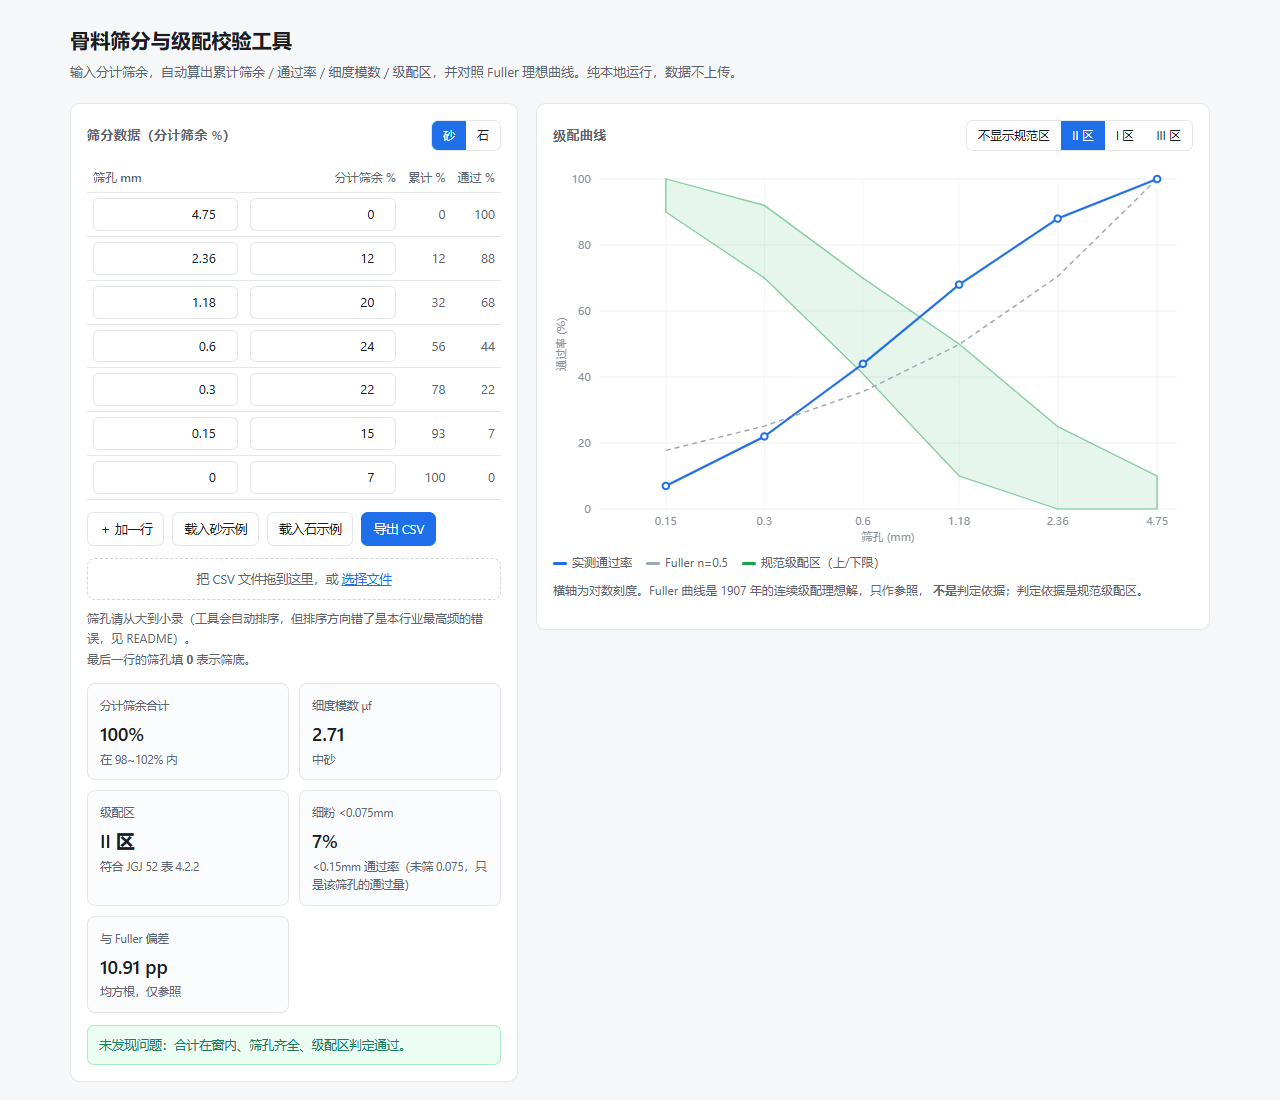
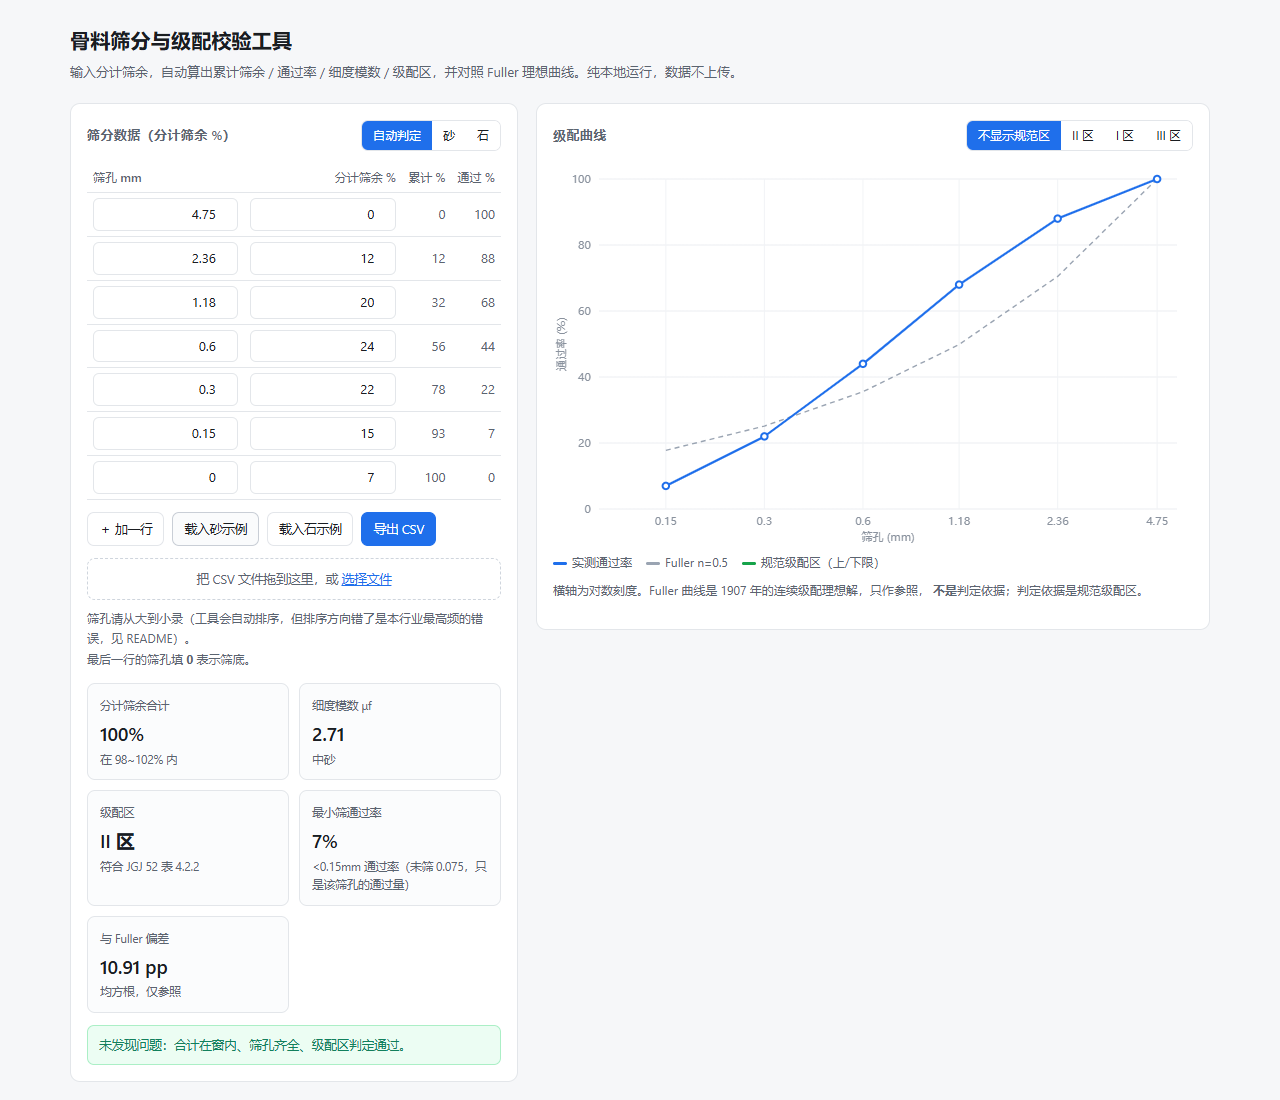
fix: 碎石被误判为「级配区不合格」；细粉标签错位（v1.0.1）
问题：5~20 碎石样本被当作砂代入 JGJ 52 级配区判定，三区全不落
⇒ 判成「不合格」，且细度模数报「缺少 1.18mm 筛」。这是工具口径错误，
不是数据错误，会直接把合格石料判死。

修复：
- 按 4.75mm 通过率自动区分细/粗骨料（阈值 85%，两侧余量充分）
- 粗骨料：细度模数与砂级配区标注「不适用」且不计入不合格；给出最大粒径
- 核心新增 fines.isFines 布尔标记，修掉 basis 文案含 0.075 导致的标签错位
- CLI/页面 kind 默认改为 auto，保留 --kind 强制覆盖
- 断言 14 → 19，新增粗细骨料回归 4 条 + 细粉标签回归 1 条
- docs 增补口径边界一节；README 增更新记录

diff --git a/index.html b/index.html
@@ -72,7 +72,8 @@
       <div class="head-row">
         <h2>筛分数据（分计筛余 %）</h2>
         <div class="seg" id="kindSeg">
-          <button data-kind="sand" class="on">砂</button>
+          <button data-kind="auto" class="on">自动判定</button>
+          <button data-kind="sand">砂</button>
           <button data-kind="stone">石</button>
         </div>
       </div>
@@ -139,7 +140,7 @@
   var kpis = document.getElementById('kpis');
   var msg = document.getElementById('msg');
   var chart = document.getElementById('chart');
-  var kind = 'sand';
+  var kind = 'auto';   // auto | sand | stone
   var zoneOn = 'none';
 
   var SAND_DEMO = [
@@ -195,7 +196,7 @@
 
   function render() {
     var data = rows();
-    var rep = G.analyze(data, { kind: kind });
+    var rep = G.analyze(data, { kind: kind === 'auto' ? null : kind });
 
     // 表格右侧只读列
     var trs = tbody.querySelectorAll('tr');
@@ -230,7 +231,7 @@
     kpi('分计筛余合计', rep.massBalancePct + '%',
       (rep.massBalancePct >= 98 && rep.massBalancePct <= 102) ? '在 98~102% 内' : '偏离 98~102%');
 
-    if (kind === 'sand') {
+    if (rep.kind === 'sand') {
       if (rep.finenessModulus && rep.finenessModulus.ok) {
         kpi('细度模数 μf', rep.finenessModulus.value, rep.finenessModulus.classification);
       } else {
@@ -238,9 +239,14 @@
       }
       kpi('级配区', rep.zone.pass ? rep.zone.zones.join(' / ') + ' 区' : '不合格',
         rep.zone.pass ? '符合 JGJ 52 表 4.2.2' : '不落在任何区内');
+    } else {
+      kpi('骨料类别', '粗骨料', '4.75mm 通过率 <85%');
+      kpi('细度模数 μf', '不适用', '只对细骨料定义');
+      kpi('砂级配区', '不适用', 'JGJ 52 砂区不适用于粗骨料');
+      if (rep.nominalTopSize) kpi('最大粒径', rep.nominalTopSize.sieve + ' mm', '该筛孔全部通过');
     }
     if (rep.fines && rep.fines.value != null) {
-      var isFines = rep.fines.basis.indexOf('0.075') >= 0;
+      var isFines = rep.fines.isFines === true;
       kpi(isFines ? '细粉 <0.075mm' : '最小筛通过率', rep.fines.value + '%', rep.fines.basis);
     }
     if (rep.fuller) {
@@ -250,13 +256,15 @@
     var notes = [];
     if (rep.warnings.length) notes = notes.concat(rep.warnings);
     if (rep.errors.length) notes = notes.concat(rep.errors);
-    if (kind === 'sand' && !rep.zone.pass) {
+    if (rep.kind === 'sand' && !rep.zone.pass) {
       notes.push('累计筛余不落在 I/II/III 任何区内 —— 先复核数据，再怀疑材料。');
     }
     if (notes.length) {
       setMsg(rep.errors.length ? 'warn' : 'warn', '<ul><li>' + notes.join('</li><li>') + '</li></ul>');
     } else {
-      setMsg('ok', '未发现问题：合计在窗内、筛孔齐全、级配区判定通过。');
+      setMsg('ok', rep.kind === 'sand'
+        ? '未发现问题：合计在窗内、筛孔齐全、级配区判定通过。'
+        : '未发现问题：合计在窗内、通过率单调。粗骨料不做砂级配区判定。');
     }
 
     draw(rep);
@@ -308,8 +316,8 @@
 
     if (!rep) return;
 
-    // 规范级配区（仅砂）
-    if (kind === 'sand' && zoneOn !== 'none' && G.SAND_GRADING_ZONES[zoneOn]) {
+    // 规范级配区（仅砂；粗骨料不画，也不判）
+    if (rep.kind === 'sand' && zoneOn !== 'none' && G.SAND_GRADING_ZONES[zoneOn]) {
       var zone = G.SAND_GRADING_ZONES[zoneOn];
       ctx.beginPath();
       zone.forEach(function (b, i) { i ? ctx.lineTo(X(b.sieve), Y(b.hi)) : ctx.moveTo(X(b.sieve), Y(b.hi)); });
@@ -352,8 +360,8 @@
 
   // ---------------- 交互 ----------------
   document.getElementById('addRow').onclick = function () { addRow('', ''); };
-  document.getElementById('loadSand').onclick = function () { kind = 'sand'; syncKind(); fill(SAND_DEMO); };
-  document.getElementById('loadStone').onclick = function () { kind = 'stone'; syncKind(); fill(STONE_DEMO); };
+  document.getElementById('loadSand').onclick = function () { kind = 'auto'; syncKind(); fill(SAND_DEMO); };
+  document.getElementById('loadStone').onclick = function () { kind = 'auto'; syncKind(); fill(STONE_DEMO); };
 
   function syncKind() {
     document.querySelectorAll('#kindSeg button').forEach(function (b) {
@@ -374,7 +382,7 @@
   });
 
   document.getElementById('exportCsv').onclick = function () {
-    var rep = G.analyze(rows(), { kind: kind });
+    var rep = G.analyze(rows(), { kind: kind === 'auto' ? null : kind });
     if (!rep.ok) { setMsg('err', '数据还不完整，先修好再导出。'); return; }
     var blob = new Blob(['\ufeff' + G.toCsv(rep)], { type: 'text/csv;charset=utf-8' });
     var a = document.createElement('a');

diff --git a/grading-core.js b/grading-core.js
@@ -12,7 +12,7 @@
 })(typeof self !== 'undefined' ? self : this, function () {
   'use strict';
 
-  var VERSION = '1.0.0';
+  var VERSION = '1.0.1';
 
   /** 混凝土用砂标准筛孔（mm，降序）。0.075 为细粉/石粉常用补充筛。 */
   var SAND_SIEVES = [4.75, 2.36, 1.18, 0.6, 0.3, 0.15, 0.075];
@@ -187,15 +187,16 @@
     if (idx >= 0) {
       var sum = 0;
       for (var i = 0; i < retained.length; i++) sum += retained[i];
-      return { basis: '<0.075mm（0.075 筛通过率）', value: round(100 - sum, 2) };
+      return { basis: '<0.075mm（0.075 筛通过率）', value: round(100 - sum, 2), isFines: true };
     }
     var minS = Infinity, mi = -1;
     for (var j = 0; j < sieves.length; j++) {
       if (sieves[j] > 0 && sieves[j] < minS) { minS = sieves[j]; mi = j; }
     }
-    if (mi < 0) return { basis: '无法判定', value: null };
+    if (mi < 0) return { basis: '无法判定', value: null, isFines: false };
     var pr = passingRate(retained);
-    return { basis: '<' + minS + 'mm 通过率（未筛 0.075，只是该筛孔的通过量）', value: pr[mi] };
+    // isFines:false —— 这是「小于该筛孔的全部通过量」，不是石粉含量，两者不能混称
+    return { basis: '<' + minS + 'mm 通过率（未筛 0.075，只是该筛孔的通过量）', value: pr[mi], isFines: false };
   }
 
   /** Fuller 理想级配曲线：通过率 = 100·(d/D)^n，默认 n=0.5、D=最大公称粒径 */
@@ -221,21 +222,51 @@
   }
 
   /**
+   * 粗/细骨料判定。
+   *
+   * 依据：砂是粒径小于 4.75mm 的颗粒，正常砂在 4.75mm 筛上的通过率在 90% 以上；
+   * 碎石/卵石（5~20、5~25 这类）在 4.75mm 筛上的通过率很低（通常不到 10%）。
+   * 取 85% 作分界，两侧都有充分余量，不会误判。
+   *
+   * 这个判定的意义：**砂级配区与细度模数只对细骨料成立**。
+   * 把碎石喂进去判「级配区不合格」，是工具的错，不是数据的错。
+   */
+  function detectKind(sieves, passing) {
+    var idx = sieves.indexOf(4.75);
+    if (idx < 0) return 'sand';
+    return passing[idx] >= 85 ? 'sand' : 'stone';
+  }
+
+  /**
+   * 粗骨料的最大粒径 = 全部通过（累计筛余为 0）的那一档筛孔。
+   * 这是纯几何量。**不做「公称最大粒径」分档判定** —— 那要按 GB/T 14685 的分档表，本工具不判。
+   */
+  function nominalTopSize(sieves, cumulative) {
+    for (var i = sieves.length - 1; i >= 0; i--) {
+      if (cumulative[i] <= 1e-9) return { sieve: sieves[i], basis: '该筛孔累计筛余为 0（全部通过）' };
+    }
+    return null;
+  }
+
+  /**
    * 一份筛分数据的完整体检。
    * @param {Array<{sieve:number, retained:number}>} rows 分计筛余（%）
-   * @param {{kind?:'sand'|'stone', fullerN?:number, fullers?:boolean}} [opts]
+   * @param {{kind?:'auto'|'sand'|'stone', fullerN?:number, fullers?:boolean}} [opts]
    */
   function analyze(rows, opts) {
     var o = opts || {};
-    var kind = o.kind === 'stone' ? 'stone' : 'sand';
     var nm = normalize(rows);
     if (!nm.ok) return { ok: false, errors: nm.errors, warnings: nm.warnings };
 
     var cr = cumulativeRetained(nm.retained);
     var pr = passingRate(nm.retained);
+
+    var kind = (o.kind === 'sand' || o.kind === 'stone') ? o.kind : detectKind(nm.sieves, pr);
+
     var report = {
       ok: true,
       kind: kind,
+      kindAuto: (o.kind !== 'sand' && o.kind !== 'stone'),
       sieves: nm.sieves,
       retained: nm.retained,
       cumulative: cr,
@@ -252,8 +283,14 @@
       report.finenessModulus = fm;
       if (!fm.ok) report.errors.push(fm.reason);
       var zn = sandZoneOf(nm.sieves, cr);
+      zn.applicable = true;
       report.zone = zn;
       if (!zn.pass) report.errors.push('累计筛余不落在任何级配区（I/II/III）内');
+    } else {
+      // 粗骨料：细度模数与砂级配区都不适用，明确标注「不适用」，不硬判不合格
+      report.finenessModulus = { ok: false, notApplicable: true, reason: '细度模数只对细骨料定义，粗骨料不计算' };
+      report.zone = { applicable: false, zones: [], pass: true, note: 'JGJ 52 的砂级配区规定只适用于细骨料，粗骨料不做该项判定' };
+      report.nominalTopSize = nominalTopSize(nm.sieves, cr);
     }
 
     if (o.fullers !== false) {

diff --git a/README.md b/README.md
@@ -11,6 +11,7 @@
 **在线版（免安装）**：<https://jun4033323689.github.io/aggregate-grading-toolkit/>
 
 > 输入 7 个筛孔的分计筛余，输出：累计筛余 → 通过率 → 细度模数 → 级配区判定 → 细粉含量 → 与 Fuller 曲线的偏差。
+> 自动区分砂与碎石：**砂走细度模数 + JGJ 52 级配区；碎石明确标「不适用」，不硬判不合格。**
 
 ![界面截图](docs/screenshot.png)
 
@@ -45,7 +46,7 @@
 ```bash
 node cli.mjs samples/                      # 校验目录下所有 csv
 node cli.mjs samples/sand-mechanism-II.csv # 单个文件
-node cli.mjs a.csv --kind stone            # 按碎石口径
+node cli.mjs a.csv --kind stone            # 强制按碎石口径（默认为 auto 自动判定）
 node cli.mjs a.csv --cumulative            # 输入列是累计筛余，自动还原
 node cli.mjs samples/ --json               # 输出 JSON，便于接流水线
 ```
@@ -144,6 +145,7 @@ $$\mu_f = \frac{(\beta_2+\beta_3+\beta_4+\beta_5+\beta_6) - 5\beta_1}{100-\beta_
 | 分计/累计/通过率的换算与方向校验 | ❌ 不做配合比设计 |
 | 砂细度模数与粗细分类 | ❌ 不做空隙率 / 堆积密度计算（CPM 等） |
 | 砂颗粒级配区判定（JGJ 52 表 4.2.2） | ❌ 不做强度预测 |
+| 粗细骨料自动识别（阈值：4.75mm 通过率 85%） | ❌ 不判「公称最大粒径」分档 |
 | 细粉（石粉）含量口径换算 | ❌ 不做经济性/成本优化 |
 | 与 Fuller 理想曲线的偏差统计 | ❌ 不替代试验，不提供规范解释权 |
 | 数据体检（合计、单调性、缺项） | |
@@ -170,7 +172,7 @@ npm test        # node --test tests/core.test.mjs
 npm run demo    # 跑一遍 samples/ 下全部示例
 ```
 
-14 条断言，覆盖：累加方向、通过率互补、β1>0 的细度模数、级配区判定、输入乱序不影响结果、合计告警、非法值拦截、缺项处理、细粉口径、Fuller 端点、CSV 往返。
+19 条断言，覆盖：累加方向、通过率互补、β1>0 的细度模数、级配区判定、输入乱序不影响结果、合计告警、非法值拦截、缺项处理、细粉口径、Fuller 端点、CSV 往返、**碎石不被误判为「级配区不合格」**。
 
 ---
 
@@ -185,3 +187,20 @@ MIT License © 2026 杨镇铭 (Yang Zhenming)
 杨镇铭，软件行业十余年，现于新疆一家商品混凝土搅拌站任站长。
 
 这个工具是日常工作里被筛分数据坑出来的副产品。作者另有一套完整的混凝土级配决策系统（砼睿AI），**核心算法不在本仓库**，本仓库也不包含它的任何代码。
+
+---
+
+## 更新记录
+
+### v1.0.1（2026-10-21）
+
+- **修一个真缺陷**：碎石（5~20 等）此前被当作砂代入 JGJ 52 级配区判定，几乎必然判成「三区全不落 → 不合格」。现在按 4.75mm 通过率自动区分粗细骨料，粗骨料明确标注「细度模数 / 砂级配区 不适用」，且**不再计入不合格**
+- 新增粗骨料「最大粒径」（全部通过的那档筛孔），**不做公称粒径分档判定**
+- 细粉口径标记改为由核心给出 `isFines` 布尔值，修掉「`<2.36mm 通过率（未筛 0.075…）` 因文案含 0.075 而被标成细粉」的标签错位
+- 界面骨料类型增加「自动判定」档（默认），砂/石可手动强制
+- 断言 14 → **19 条**，新增 4 条粗细骨料回归 + 1 条细粉标签回归
+- docs 增加「细骨料与粗骨料的口径边界」一节（含判据阈值与依据）
+
+### v1.0.0（2026-10-21）
+
+首个版本。

diff --git a/docs/sieve-data-conventions.md b/docs/sieve-data-conventions.md
@@ -155,3 +155,48 @@ P(d) = 100 · (d / D)^n
 - Dinger D.R., Funk J.E. (1994) —— 引入有限粒径下限的级配方程
 
 > 本文与工具代码均以 MIT 许可发布。规范条文的理解以官方发布文本为准。
+
+---
+
+## 附：细骨料与粗骨料的口径边界
+
+这一节解决一个常见误用：**把碎石的筛分数据套进「砂级配区」去判合格与否。**
+
+### 为什么不能混用
+
+| 项目 | 细骨料（砂） | 粗骨料（碎石 / 卵石） |
+|---|---|---|
+| 定义 | 粒径 **小于 4.75mm** 的颗粒 | 粒径 **大于 4.75mm** 的颗粒 |
+| 细度模数 μf | 有定义，按 0.15~4.75mm 六档累计筛余计算 | **没有定义**，算出来没有物理意义 |
+| 级配区（JGJ 52 表 4.2.2） | 适用，分 I / II / III 区 | **不适用**，该表只针对砂 |
+| 常用控制指标 | 细度模数、级配区、含泥量、石粉含量 | 最大粒径、公称粒径分档、针片状、压碎值、含泥量 |
+
+把一个 5~20mm 碎石样本代入 I/II/III 区判定，几乎必然「三区全不落」——这不是材料不合格，**是判定口径用错了**。
+
+### 自动识别的判据
+
+本工具用 **4.75mm 筛的通过率** 做分界：
+
+- 通过率 **≥ 85%** → 判为细骨料
+- 通过率 **< 85%** → 判为粗骨料
+
+取 85% 是因为两侧都有充分余量：正常砂在 4.75mm 的通过率通常在 90% 以上，而 5~20、5~25 这类碎石通常不到 10%，中间几乎没有真实样本，不存在误判空间。
+
+判为粗骨料后，工具的行为是：
+
+1. **不计算细度模数**，输出「不适用（粗骨料）」
+2. **不做砂级配区判定**，输出「不适用」，且**不计入不合格**
+3. **给出最大粒径**（全部通过的那一档筛孔）——这是纯几何量
+4. 照常做：累计筛余与通过率换算、合计 98%~102% 体检、通过率单调性体检、与 Fuller 曲线的偏差
+
+> ⚠ 工具**不判「公称最大粒径」的分档**。那是按 GB/T 14685 的分档表来的，属于产品规格判定，
+> 与「筛分数据算得对不对」是两件事。工具只报「最大粒径（该筛孔全部通过）」，不做规格结论。
+
+### 想强行指定怎么办
+
+```bash
+node cli.mjs stone.csv --kind stone    # 强制按粗骨料口径
+node cli.mjs sand.csv  --kind sand     # 强制按细骨料口径
+```
+
+不指定时为 `auto`。**不建议长期用强制模式**——数据本身就带着答案，自动判定错了说明数据有问题。
